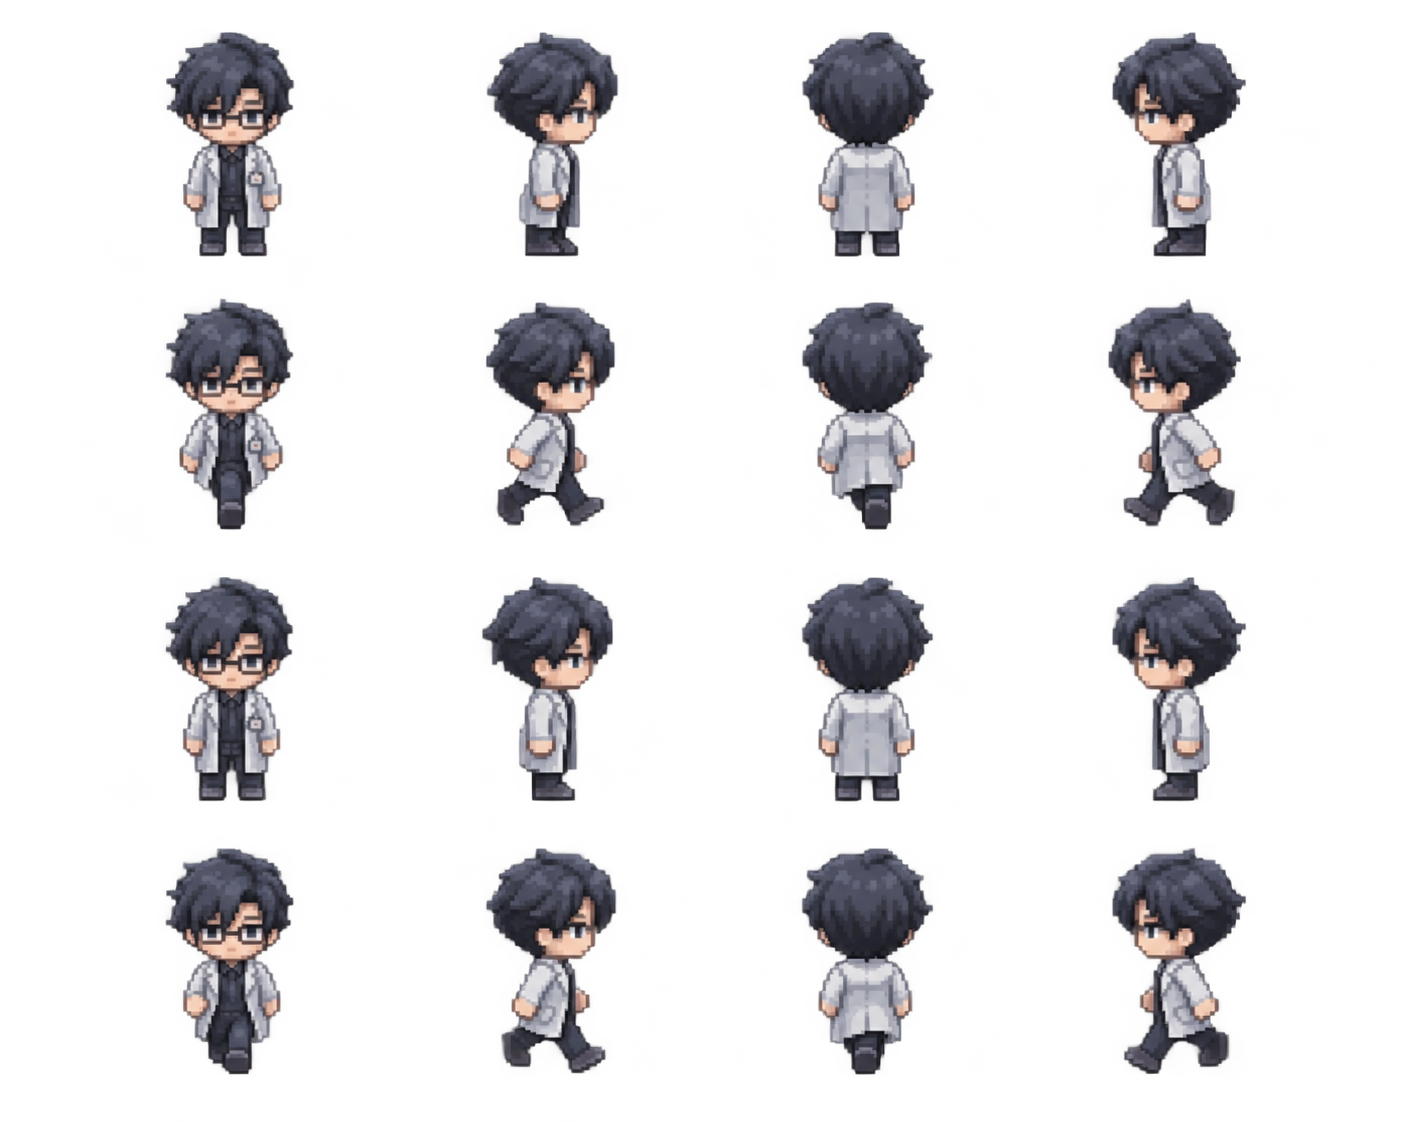
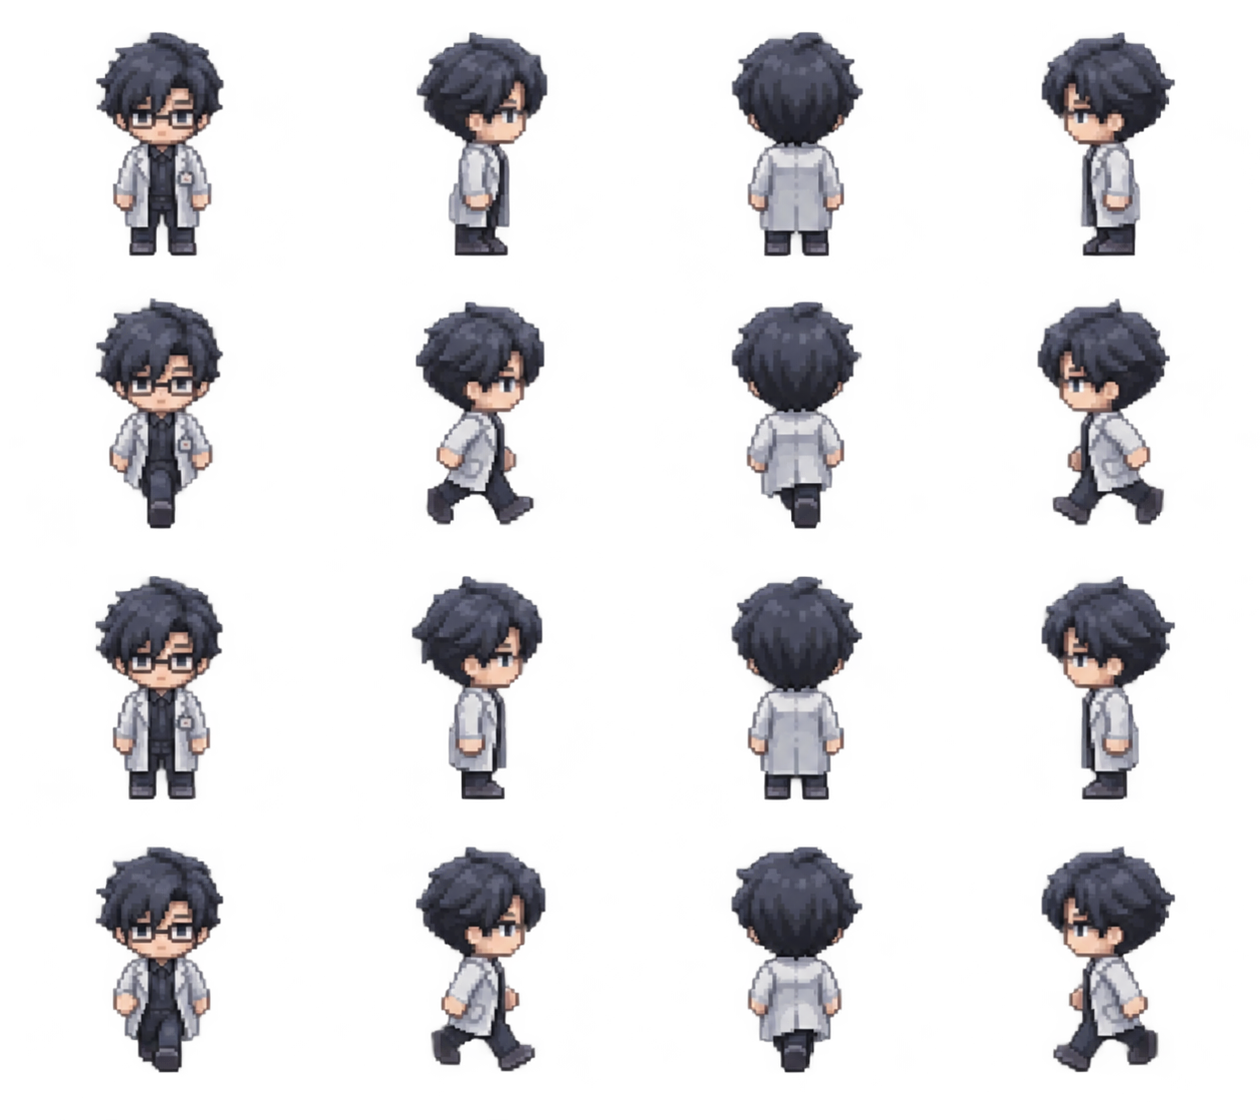
feat: 套用正式主角移動美術

diff --git a/player.py b/player.py
@@ -13,7 +13,8 @@ class Player:
         width=40,
         height=40,
         speed=300,
-        sprite_path=None
+        sprite_path=None,
+        visual_scale=1.5
     ):
         # 建立玩家矩形，用來記錄位置與碰撞範圍
         self.rect = pygame.Rect(
@@ -50,7 +51,9 @@ class Player:
         if sprite_path is not None:
             self.animations = self._load_sprite_sheet(sprite_path)
 
-    def _load_sprite_sheet(self, filename, cols=4, rows=3):
+        self.visual_scale = visual_scale #角色大小放大倍率
+
+    def _load_sprite_sheet(self, filename, cols=4, rows=4):
         """保留原始透明影格，缺圖時使用矩形備援。"""
         try:
             sheet = pygame.image.load(filename)
@@ -88,14 +91,12 @@ class Player:
             self.frame_index = 0
             self.animation_timer = 0.0
             return
-        if self.frame_index == 0:
+        if self.frame_index not in (1, 3):
             self.frame_index = 1
         self.animation_timer += dt
-        steps = int(self.animation_timer / self.animation_interval)
-        if steps:
-            if steps % 2:
-                self.frame_index = 3 - self.frame_index
-            self.animation_timer -= steps * self.animation_interval  # 保留餘時避免不同幀率造成動畫漂移
+        if self.animation_timer >= self.animation_interval:
+            self.frame_index = 3 if self.frame_index == 1 else 1
+            self.animation_timer = 0.0
 
     def get_keyboard_direction(
         self,
@@ -718,10 +719,13 @@ class Player:
             pygame.draw.rect(screen, (50, 205, 50), self.rect)
             return
         frame = self.animations[self.direction][self.frame_index]
-        scale = min(
+        base_scale = min(
             self.rect.width / frame.get_width(),
             self.rect.height / frame.get_height()
         )
+
+        scale = base_scale * self.visual_scale
+
         size = (max(1, round(frame.get_width() * scale)),
                 max(1, round(frame.get_height() * scale)))
         image = pygame.transform.scale(frame, size)  # 最近鄰縮放保留角色像素邊緣

diff --git a/test/test_chapter2_flow.py b/test/test_chapter2_flow.py
@@ -452,10 +452,23 @@ class Chapter2FlowTests(unittest.TestCase):
             (windowsill["name"], windowsill["type"], windowsill["item"]),
             ("窗台", "searchable", "t0_diary_page_5"),
         )
-        self.assertEqual(
-            self.game_ui.scale_rect(self.screen, layout_objects["t0_windowsill"]),
-            pygame.Rect(286, 43, 41, 137),
-        )
+
+    def test_windowsill_interaction_polygon(self):
+        manager = MapManager(self.layout, self.game_ui, self.game)
+        player = Player(0, 0, width=2, height=2)
+        in_region = home_function("is_in_interaction_region", {
+            "ui_layout": self.layout, "game": self.game, "game_ui": self.game_ui,
+            "screen": self.screen, "player": player,
+        })
+        for space, object_id in (("T0", "t0_windowsill"), ("T3", "t3_windowsill")):
+            with self.subTest(space=space):
+                self.game.enter_space(space)
+                rect = manager.get_interaction_rects(space, self.screen)[object_id]
+                self.assertEqual(rect, pygame.Rect(293, 150, 201, 47))
+                player.rect.center = (390, 175)
+                self.assertTrue(in_region(object_id, rect))
+                player.rect.center = (295, 153)
+                self.assertFalse(in_region(object_id, rect))
 
     def test_corridor_return_spawns_are_independent_of_door_positions(self):
         corridor = self.layout["spaces"]["CH2_CORRIDOR"]

diff --git a/game_home.py b/game_home.py
@@ -48,7 +48,7 @@ from ui.interaction_ui import InteractionUI
 pygame.init()
 pygame.key.stop_text_input()
 
-DEBUG_COLLISION = True  # 正式遊玩預設隱藏碰撞校正圖層
+DEBUG_COLLISION = False  # 正式遊玩預設隱藏碰撞校正圖層
 POLYGON_EDITOR_ENABLED = True  # Enable mouse and keyboard polygon editing
 polygon_editor_active = False  # 記錄目前是否正在繪製Polygon
 polygon_editor_points = []  # 暫存本次繪製的Base座標頂點
@@ -245,7 +245,8 @@ player = Player(
     width=40,
     height=40,
     speed=300,
-    sprite_path=BASE_DIR / "assets" / "素材庫" / "角色" / "main_player.png"
+    sprite_path=BASE_DIR / "assets" / "素材庫" / "角色" / "main_character.png",
+    visual_scale = 1.5
 )
 
 # 儲存目前玩家持續按住的移動按鍵

diff --git a/test/test_t3_room.py b/test/test_t3_room.py
@@ -197,7 +197,10 @@ class T3RoomTests(unittest.TestCase):
                 image = gui.load_image(layout["asset"])
                 expected = gui.scale_image_to_fit(image, target).get_rect(center=target.center)
                 self.assertEqual(runtime["collision_rects"][object_id + "_body"], expected)
-            self.assertEqual(room["objects"]["t3_windowsill"]["x"], 286)
+            self.assertEqual(
+                runtime["interaction_rects"]["t3_windowsill"],
+                gui.scale_rect(surface, room["objects"]["t3_windowsill"]),
+            )
             gui.draw_space(surface, self.f.game, (0, 0))
         npc = room["decorations"]["young_li_nian"]
         self.assertEqual((npc["x"], npc["y"], npc["width"], npc["height"]), (120, 215, 55, 75))

diff --git a/test/test_player_animation.py b/test/test_player_animation.py
@@ -9,7 +9,7 @@ import pygame
 from player import Player
 
 ROOT = Path(__file__).resolve().parent.parent
-SPRITE = ROOT / "assets" / "素材庫" / "角色" / "main_player.png"
+SPRITE = ROOT / "assets" / "素材庫" / "角色" / "main_character.png"
 
 
 class PlayerAnimationTests(unittest.TestCase):

diff --git a/move/character_move.py b/move/character_move.py
@@ -80,7 +80,7 @@ class Player:
 
 
 if __name__ == "__main__":
-    player = Player("main_player.png", WIDTH // 2, HEIGHT // 2, scale=3, speed=4)
+    player = Player("main_character.png", WIDTH // 2, HEIGHT // 2, scale=3, speed=4)
 
     while True:
         for event in pygame.event.get():
